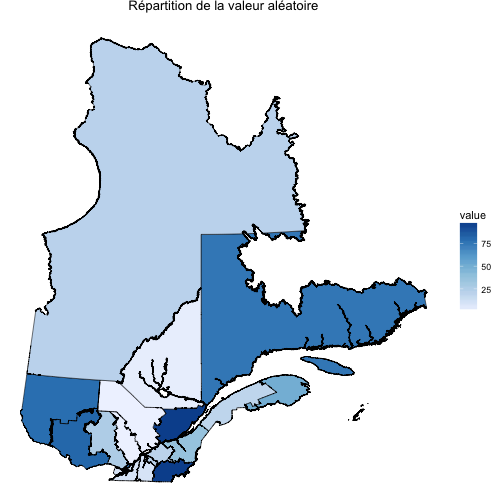
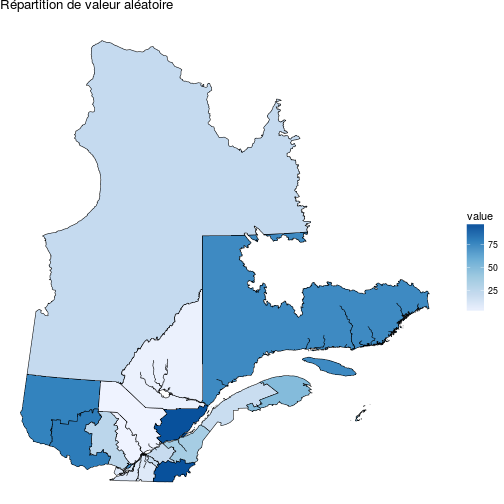
Typos
Like a lot of typos

diff --git a/_posts/2016-11-07-arcgis.md b/_posts/2016-11-07-arcgis.md
@@ -22,10 +22,10 @@ require(ggmap)
 require(maptools)
 {% endhighlight %}
 
-Une fois les *packages* installés, il faut utiliser la commande suivant pour importer les données du *shape file*
+Une fois les *packages* installés, il faut utiliser la commande suivante pour importer les données du *shape file*.
 
 {% highlight r %}
-shp <- readOGR(dsn = "/Users/philippehamel1/Desktop/Blog/Map_R/data/shp", 
+shp <- readOGR(dsn = "/home/philippe/Documents/project/data-BlogueuR/Carte/shp", 
                layer = "Region_admin_region")
 {% endhighlight %}
 
@@ -33,7 +33,7 @@ shp <- readOGR(dsn = "/Users/philippehamel1/Desktop/Blog/Map_R/data/shp",
 
 {% highlight text %}
 ## OGR data source with driver: ESRI Shapefile 
-## Source: "/Users/philippehamel1/Desktop/Blog/Map_R/data/shp", layer: "Region_admin_region"
+## Source: "/home/philippe/Documents/project/data-BlogueuR/Carte/shp", layer: "Region_admin_region"
 ## with 24 features
 ## It has 14 fields
 {% endhighlight %}
@@ -92,7 +92,7 @@ summary(shp)
 ##  Max.   :7864900   Max.   :21.00   Max.   :-57.13   Max.   :55.93  
 ## 
 {% endhighlight %}
-Il contient 14 éléments, mais un seul de ceux-ci nous intéresse, celui qui correspond aux régions administratives. Dans le cas de notre *shape file*, c'est l'élément **resnmreg**.
+Il contient 14 éléments, mais un seul de ceux-ci nous intéresse. Celui qui correspond aux régions administratives. Dans le cas de notre *shape file*, c'est l'élément **resnmreg**.
 
 {% highlight r %}
 levels(shp$resnmreg)
@@ -119,13 +119,13 @@ levels(shp$resnmreg)
 ## [16] "Outaouais"                      
 ## [17] "Saguenay - Lac-Saint-Jean"
 {% endhighlight %}
-Il faut utiliser la fontion **fortify** qui permet d'e créer un data.frame avec l'élément que l'on désire comme variable servant d'identifiant.
+Il faut utiliser la fontion **fortify** qui permet de créer un **data.frame** avec l'élément que l'on désire comme variable servant d'identifiant.
 
 {% highlight r %}
 shape <- fortify(shp, region = "resnmreg")
 {% endhighlight %}
 
-Pour des raisons d'éfficacité, nous allons générer les données que nous allons cartographier.
+Pour des raisons d'éfficacité, nous allons générer aléatoirement les données que nous allons cartographier.
 
 {% highlight r %}
 set.seed(666)
@@ -134,7 +134,7 @@ data <- data.frame(id = levels(shp$resnmreg),
                                   size =length(levels(shp$resnmreg)), 
                                   replace = T))
 {% endhighlight %}
-Les données générer ressemble à ceci :
+Les données générer ressemblent à ceci :
 
 {% highlight r %}
 head(data)
@@ -151,7 +151,7 @@ head(data)
 ## 5  Chaudière-Appalaches    36
 ## 6             Côte-Nord    75
 {% endhighlight %}
-Puis on joint les deux data.frame, *data* et *shape*. Il faut s'assurer que les deux data.frame possède une variable en commun et que cette variable est codée de la même manière. Ici on utilise la varaible *id* pour fusionner les deux jeux de données.
+Puis on joint les deux data.frame, *data* et *shape*. Il faut s'assurer que les deux **data.frame** possèdent une variable en commun et que cette variable est codée de la même manière. Ici on utilise la varaible *id* pour fusionner les deux jeux de données.
 
 {% highlight r %}
 plot.data <- left_join(x = shape, y = data, by = "id")
@@ -164,7 +164,19 @@ carte <- ggplot() +
                  color = "black", size = 0.25) +
     scale_fill_distiller(direction = 1) +
     theme_nothing(legend = T) +
-    ggtitle("Répartition de la valeur aléatoire")
+    ggtitle("Répartition de valeur aléatoire")
+{% endhighlight %}
+
+
+
+{% highlight text %}
+## Warning: `panel.margin` is deprecated. Please use `panel.spacing`
+## property instead
+{% endhighlight %}
+
+
+
+{% highlight r %}
 carte
 {% endhighlight %}
 

diff --git a/_posts/2016-11-07-googlemap.md b/_posts/2016-11-07-googlemap.md
@@ -10,16 +10,10 @@ output:
     mathjax:  default
 ---
 
-Afin de montrer comment utiliser **ggmap** pour localiser des points en utilisant R, je vais usiliser les données de localisation du Cicuit Électrique qui se trouve ici <https://lecircuitelectrique.com/trouver-une-borne>. J'ai inclus dans le fichier *data* un jeu de données préalablement nettoyé et dont les variable *string* ont été manipulées. Je ne montrerai pas comment manipuler des *string* aujourd'hui, ce sera le sujet d'un prochain tutoriel.
+Afin de montrer comment utiliser **ggmap** pour localiser des points en utilisant R, je vais usiliser les données de localisation du Circuit Électrique qui se trouve ici <https://lecircuitelectrique.com/trouver-une-borne>. J'ai inclus dans le fichier *data* un jeu de données préalablement nettoyé et dont les variable *string* ont été manipulées. Je ne montrerai pas comment manipuler des *string* aujourd'hui, ce sera le sujet d'un prochain tutoriel.
 
 {% highlight r %}
 library(RCurl)
-{% endhighlight %}
-
-
-
-{% highlight text %}
-## Warning: package 'RCurl' was built under R version 3.2.4
 {% endhighlight %}
 
 
@@ -80,19 +74,26 @@ head(Borne)
 
 Le *package* utilisé dans ce tutoriel est:
 
-
 {% highlight r %}
 require(ggmap)
 {% endhighlight %}
+
+
+
+{% highlight text %}
+## Loading required package: ggmap
+{% endhighlight %}
+
+
+
+{% highlight text %}
+## Loading required package: ggplot2
+{% endhighlight %}
+
 Avant de commencer, il est important de comprendre le concept de **ggmap**. Lorsque **ggplot** construit des graphiques, il superpose des couches, ou *layers*. La fonction *get_map* va nous permettre d'aller chercher une carte dont l'axe *x* est la longitude et l'axe *y* est la latitude, puis de l'utiliser comme base pour superposer des couches contenant des points.
 
 La première étape de la construction de la carte est le choix de la localisation. Il existe trois manière de sélectionner celle-ci.
 
-Avec une adresse :
-
-{% highlight r %}
-Location <- "Université Laval"
-{% endhighlight %}
 Les coordonnées d'un lieu :
 
 {% highlight r %}
@@ -123,9 +124,9 @@ Borne_point <-   ggmap(map) +
     ggtitle("Répartition des bornes du Circuit Électrique au Québec") +
   theme_nothing(legend = T)
 {% endhighlight %}
-![plot of chunk unnamed-chunk-10](/figure/source/2016-11-07-googlemap/unnamed-chunk-10-1.png)
+![plot of chunk unnamed-chunk-8](/figure/source/2016-11-07-googlemap/unnamed-chunk-8-1.png)
 
-Les fonctionnalités disponibles avec **ggplot** sont utilisable ici. Par exemple, on peut changer la couleur des points selon des variables catégoriques. Le fichier de données donne une valeur différente pour chaque type de borne, recharge rapide ou 200 volt. On peut donc leur donner chacun une couleur différente avec l'arguement **color**
+Les fonctionnalités disponibles avec **ggplot** sont utilisables ici. Par exemple, on peut changer la couleur des points selon des variables catégoriques. Le fichier de données donne une valeur différente pour chaque type de borne, recharge rapide ou 200 volt. On peut donc leur donner chacun une couleur différente avec l'arguement **color**.
 
 
 {% highlight r %}
@@ -138,7 +139,7 @@ Borne_point <-   ggmap(map) +
                         values = c("Level2" = "blue", "FastDC" = "red")) +
     theme_nothing(legend = T)
 {% endhighlight %}
-![plot of chunk unnamed-chunk-12](/figure/source/2016-11-07-googlemap/unnamed-chunk-12-1.png)
+![plot of chunk unnamed-chunk-10](/figure/source/2016-11-07-googlemap/unnamed-chunk-10-1.png)
 
 **Note importante** : pour des utilisations académiques ou qui nécessitent une diffusion publique, ggmap demande de se faire citer de la manière suivante :
 
